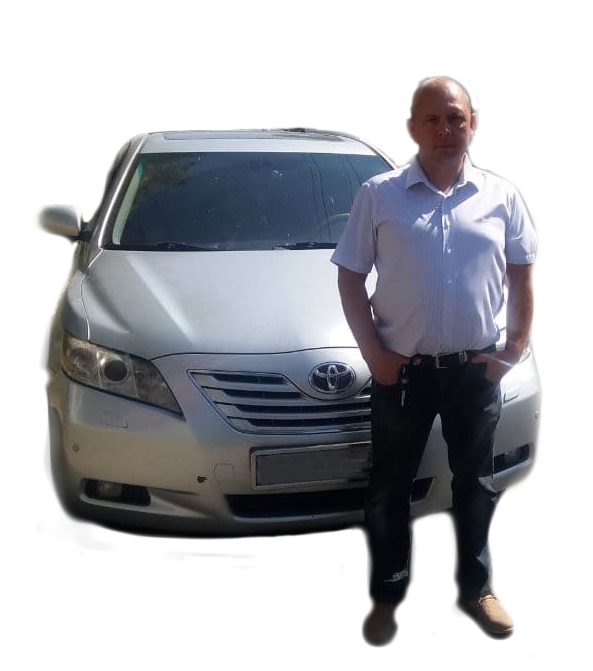
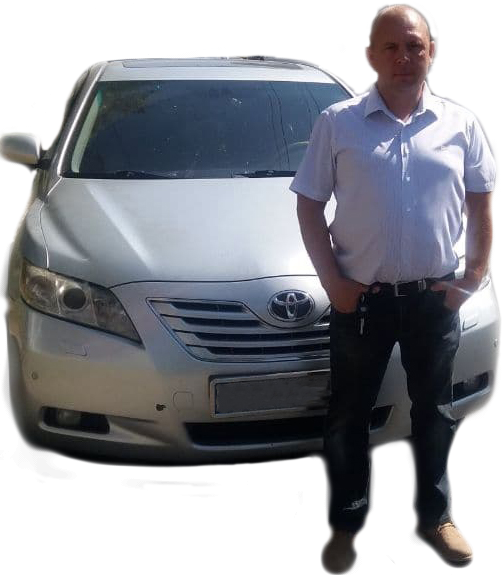
fix self photo

diff --git a/client/src/components/Introduction/index.jsx b/client/src/components/Introduction/index.jsx
@@ -12,7 +12,7 @@ const useStyles = makeStyles(() => ({
         background: 'url(road.jpg)',
         backgroundSize: '100%',
         justifyContent: 'center',
-        padding: '3% 5%',
+        padding: '3% 1%',
         position: 'relative',
     },
     bodyIntro: {
@@ -91,10 +91,9 @@ const useStyles = makeStyles(() => ({
     camryMobile: {
         opacity: 0,
         imageRendering: 'high-quality',
-        width: '220px',
-        height: '150px',
+        width: '200px',
+        height: '130px',
         bottom: '60px',
-        right: '17%',
         backgroundSize: 'contain',
         animationDelay: '200ms',
         animation: '$moveCamryMobile 2s linear',
@@ -120,7 +119,7 @@ const useStyles = makeStyles(() => ({
     textShadow: '1px -1px 0 #767676, -1px 2px 1px #737272, -2px 4px 1px #767474, -3px 6px 1px #787777, -4px 8px 1px #7b7a7a, -5px 10px 1px #7f7d7d, -6px 12px 1px #828181, -7px 14px 1px #868585, -8px 16px 1px #8b8a89, -9px 18px 1px #8f8e8d, -10px 20px 1px #949392, -11px 22px 1px #999897',
     },
     greetingMobile:{
-        fontSize: '15px',
+        fontSize: '13px',
         textShadow: '1px -1px 0 #767676, -1px 2px 1px #737272, -2px 4px 1px #767474, -3px 6px 1px #787777',
     },
     intro: {
@@ -143,7 +142,7 @@ const useStyles = makeStyles(() => ({
         width: '500px'
     },
     selfImgMobile: {
-        width: '100px'
+        width: '150px'
     },
     button: {
         color: 'black',
@@ -172,7 +171,7 @@ const Introduction = (props) => {
             <ColorButton text={number} style={`${classes.button} ${isTabletOrMobile? classes.buttonMobile: classes.buttonBigScreen}`} onClick={() => handleCopy(number)}/>
         </div>
         <div className={classes.photoBox}>
-        <img src="selfPhotoPNG.png" className={`${classes.selfImg} ${isTabletOrMobile ? classes.selfImgMobile: classes.selfImgBigScreen}`}></img>
+        <img src="selfPhotoPNG.png" alt='self' className={`${classes.selfImg} ${isTabletOrMobile ? classes.selfImgMobile: classes.selfImgBigScreen}`}></img>
         </div>
     </div>
     </div>
